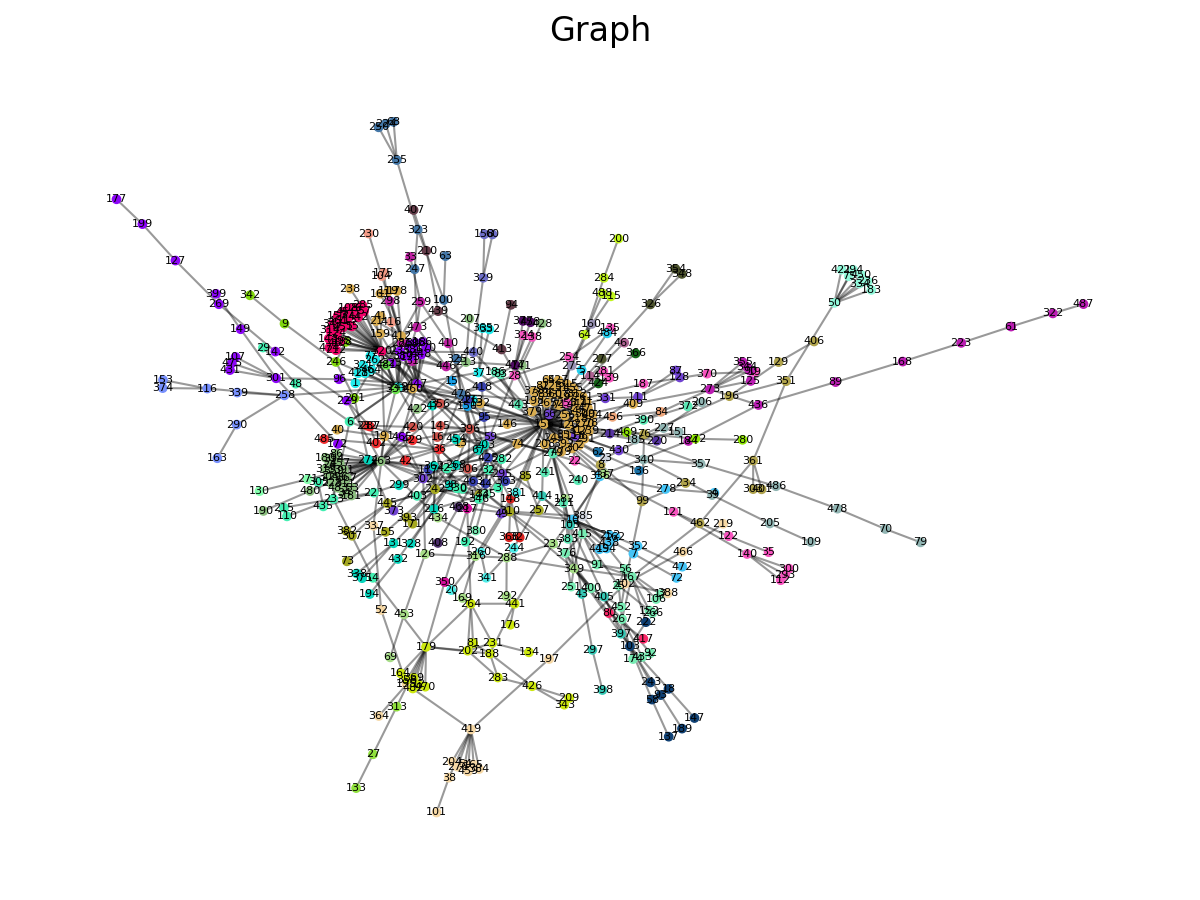
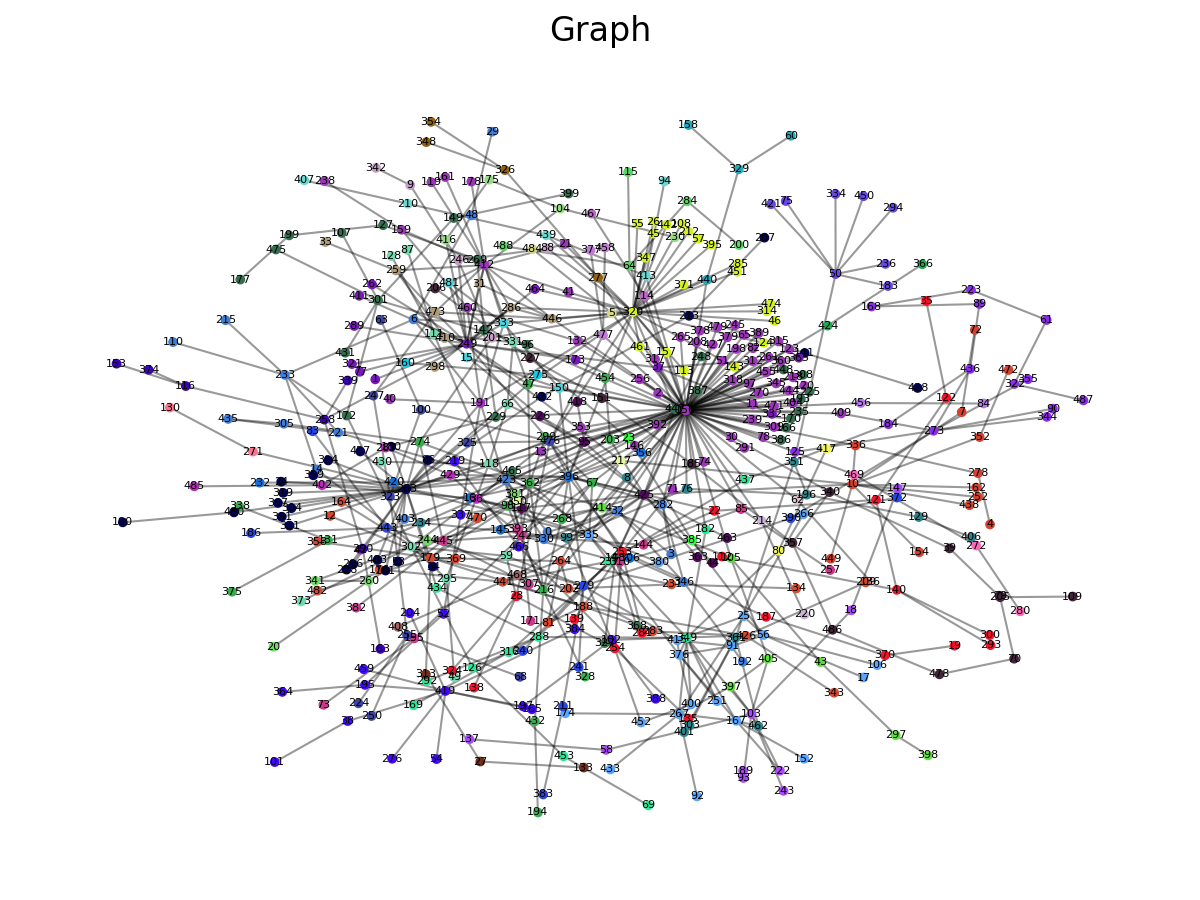
k=0.15 when using nx.spring_layout

diff --git a/libs/community_detection.py b/libs/community_detection.py
@@ -26,7 +26,7 @@ def detect_and_draw_communities(G, save_path=None, show=True, image_label:Label=
     for i, c in enumerate(community_list):
         print(f"Community {i+1}: {len(c)} nodes")
     # --- 着色网络图数据准备 ---
-    pos = G.pos if hasattr(G, 'pos') else nx.spring_layout(G, seed=seed)
+    pos = G.pos if hasattr(G, 'pos') else nx.spring_layout(G, seed=seed, k=0.15)
     color_map = {}
     palette = ["#%06x" % random.randint(0, 0xFFFFFF) for _ in range(len(community_list))]
     for idx, comm in enumerate(community_list):
@@ -116,7 +116,7 @@ def detect_and_draw_overlapping_communities(G, save_path=None, show=True, image_
     for i, (c, d) in enumerate(zip(community_list, community_densities)):
         print(f"Community {i+1}: {len(c)} nodes, density={d:.4f}")
     # --- 着色网络图数据准备 ---
-    pos = G.pos if hasattr(G, 'pos') else nx.spring_layout(G, seed=seed)
+    pos = G.pos if hasattr(G, 'pos') else nx.spring_layout(G, seed=seed, k=0.15)
     color_map = {}
     palette = ["#%06x" % random.randint(0, 0xFFFFFF) for _ in range(len(community_list))]
     for idx, comm in enumerate(community_list):
@@ -144,13 +144,14 @@ def detect_and_draw_overlapping_communities(G, save_path=None, show=True, image_
     lns = ln1 + ln2
     labels = [l.get_label() for l in lns]
     ax1.legend(lns, labels, loc='upper right')
+    ax1.set_title(f'Overlapping Community Size and Density (CONGA, sorted, k={number_communities})')
 
     # 使用 cdlib.viz.plot_network_highlighted_clusters 绘制社区高亮图
     # position = nx.spring_layout(G, seed=42)
     plot_network_highlighted_clusters(G, communities, pos, node_size=30, ax=ax2)
 
 
-    ax2.set_title('Community Visualization (Louvain)')
+    ax2.set_title(f'Overlapping Community Visualization (CONGA, highlighted clusters, k={number_communities})')
     ax2.axis('off')
     plt.tight_layout()
     if save_path:

diff --git a/libs/attack.py b/libs/attack.py
@@ -34,7 +34,7 @@ class Attack_base:
         self.parent_container = parent_container
         self.graph_seed = graph_seed
         self.draw_seed = draw_seed
-        self.pos = nx.spring_layout(G, seed=draw_seed, k=0.15)
+        self.pos = G.pos if 'pos' in G else nx.spring_layout(G, seed=graph_seed, k=0.15)
         self.G = copy.deepcopy(G)
         self._g = copy.deepcopy(G)
 

diff --git a/analysis/static_metrics_analysis.py b/analysis/static_metrics_analysis.py
@@ -20,7 +20,7 @@ print(g)
 
 # draw graph
 fig, ax = plt.subplots(figsize=(12, 9))
-pos = nx.spring_layout(g, seed=2024)
+pos = nx.spring_layout(g, seed=2024, k=0.15)
 nx.draw_networkx_nodes(g, pos, ax=ax, node_size=20)
 nx.draw_networkx_edges(g, pos, ax=ax, alpha=0.4)
 ax.set_title("Graph", fontsize=24)

diff --git a/libs/utils.py b/libs/utils.py
@@ -37,7 +37,7 @@ def build_graph(data_path, num_nodes=2000, seed=2024):
     G = reindex_graph(G)
 
     # 记录pos，用于后续上色
-    pos = nx.spring_layout(G, seed=seed)
+    pos = nx.spring_layout(G, seed=seed, k=0.15)
     G.pos = pos
 
     return G
